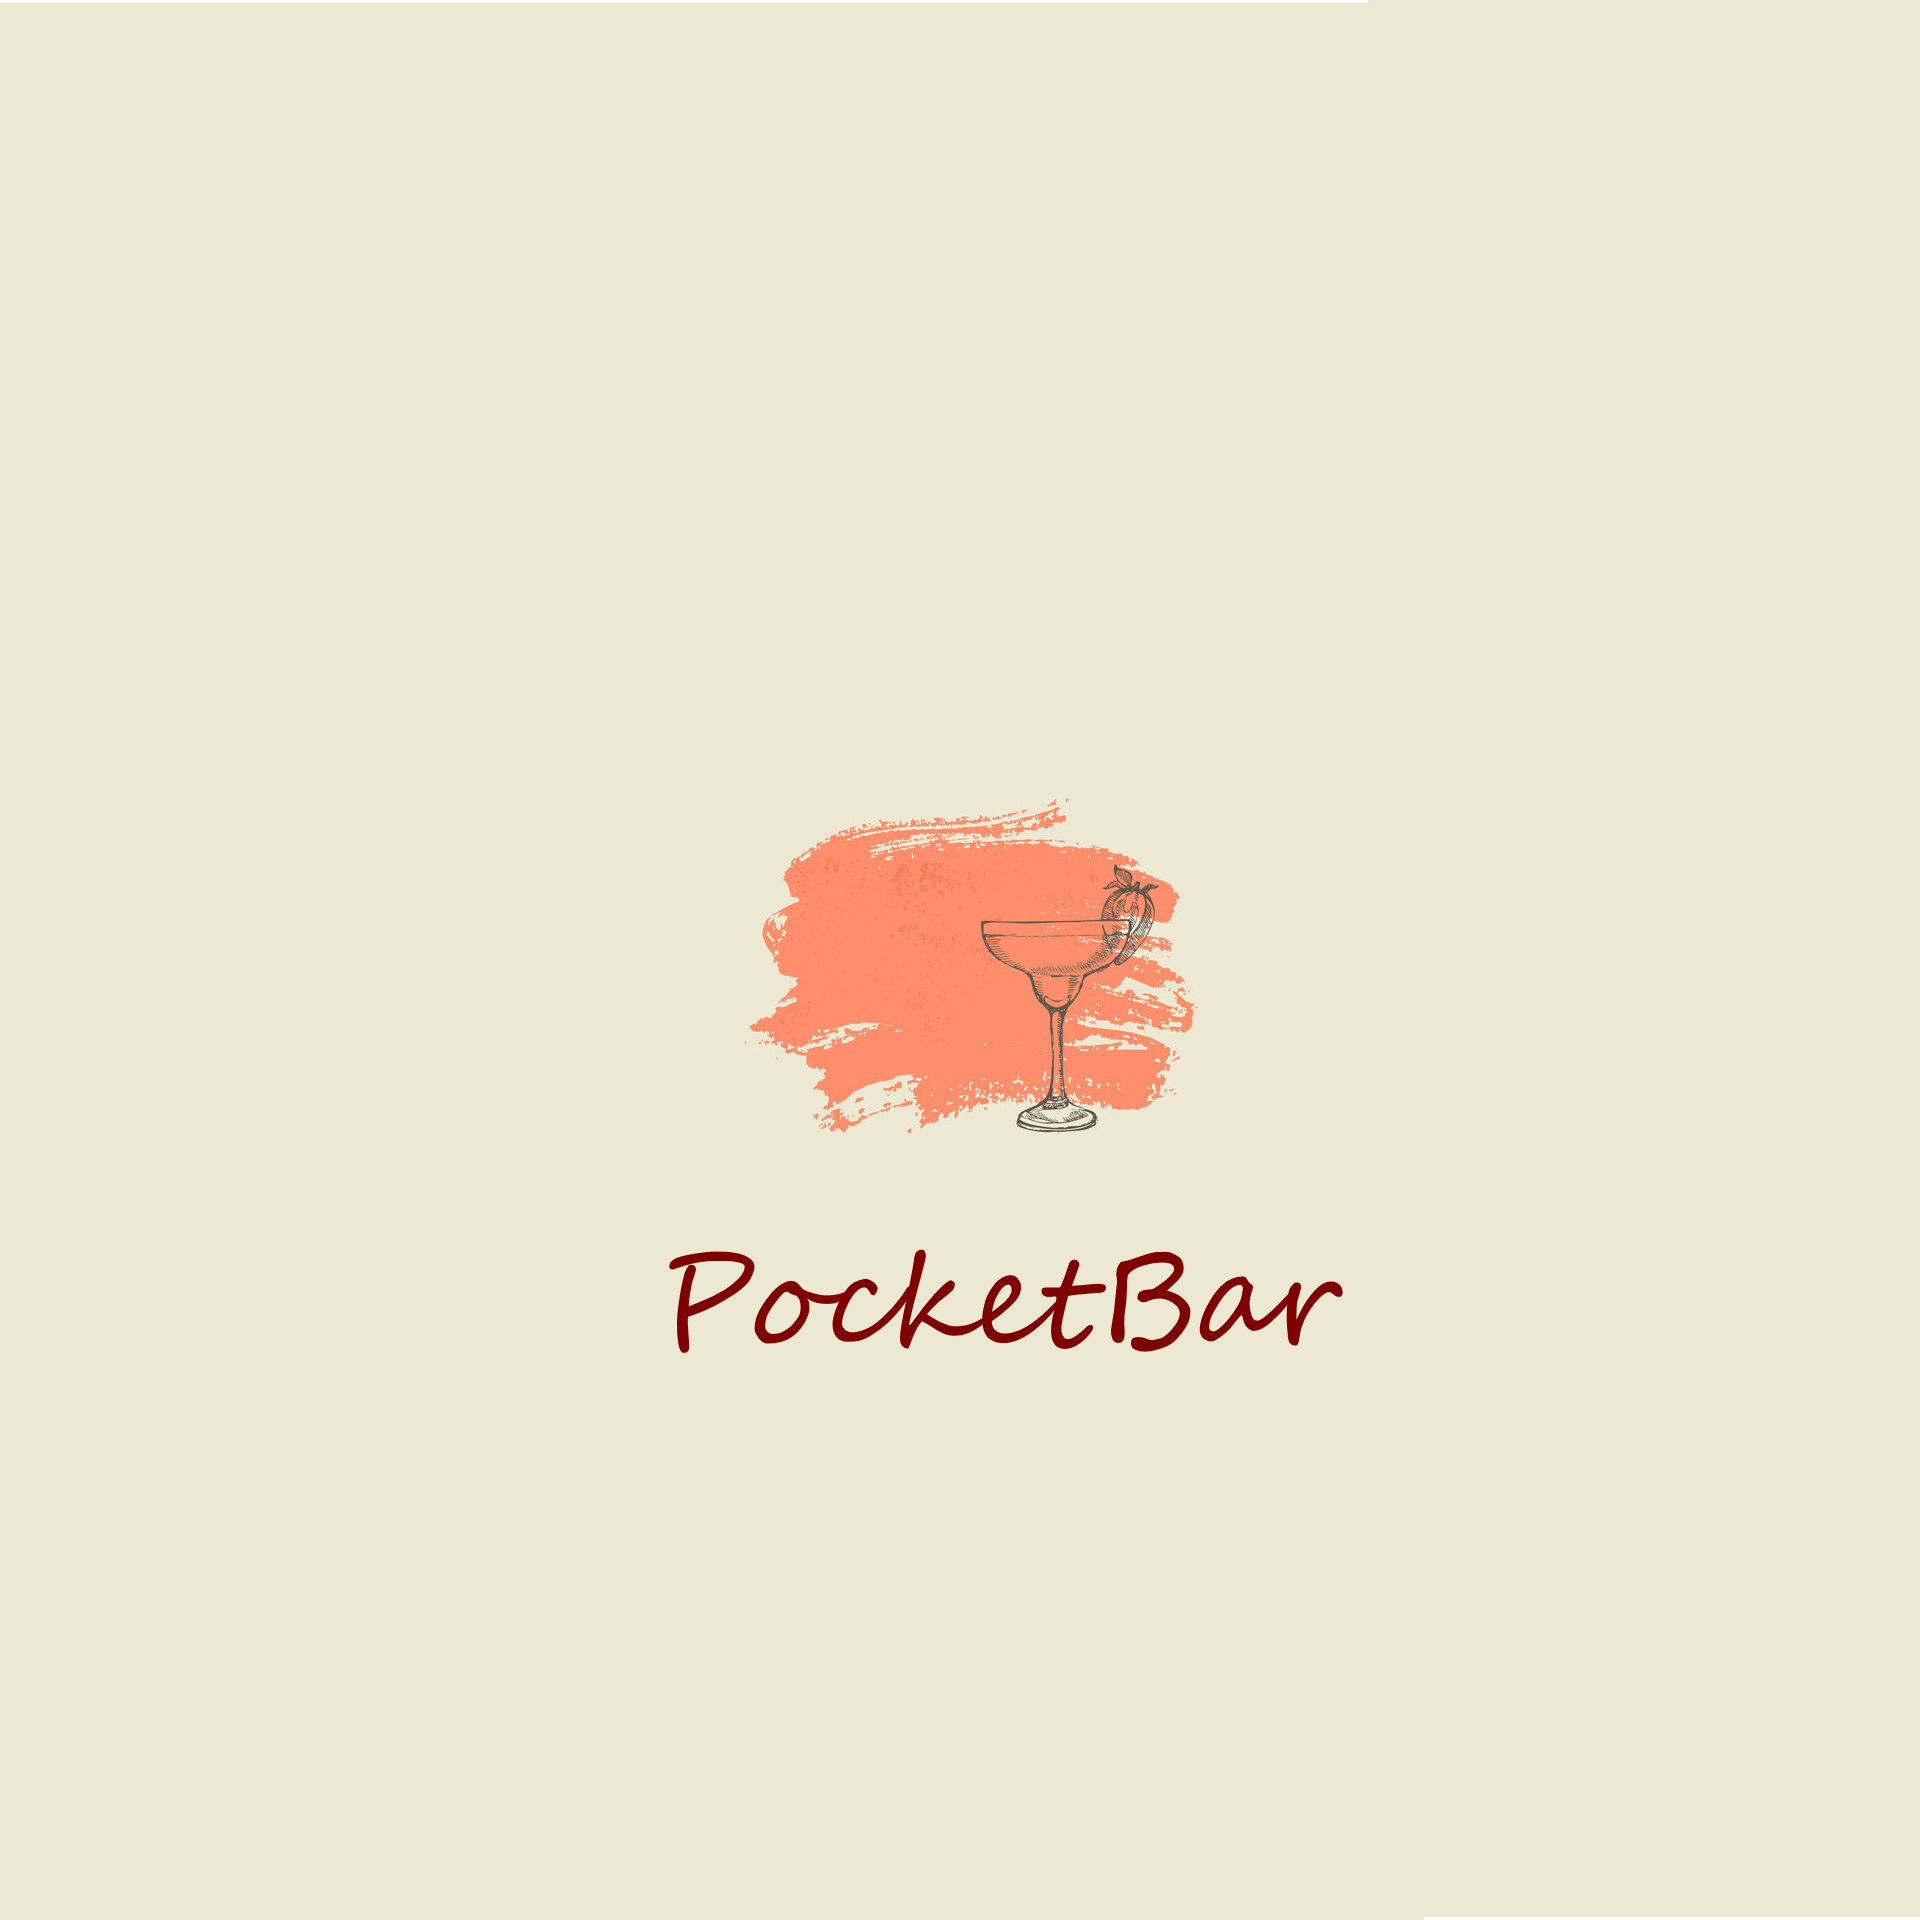
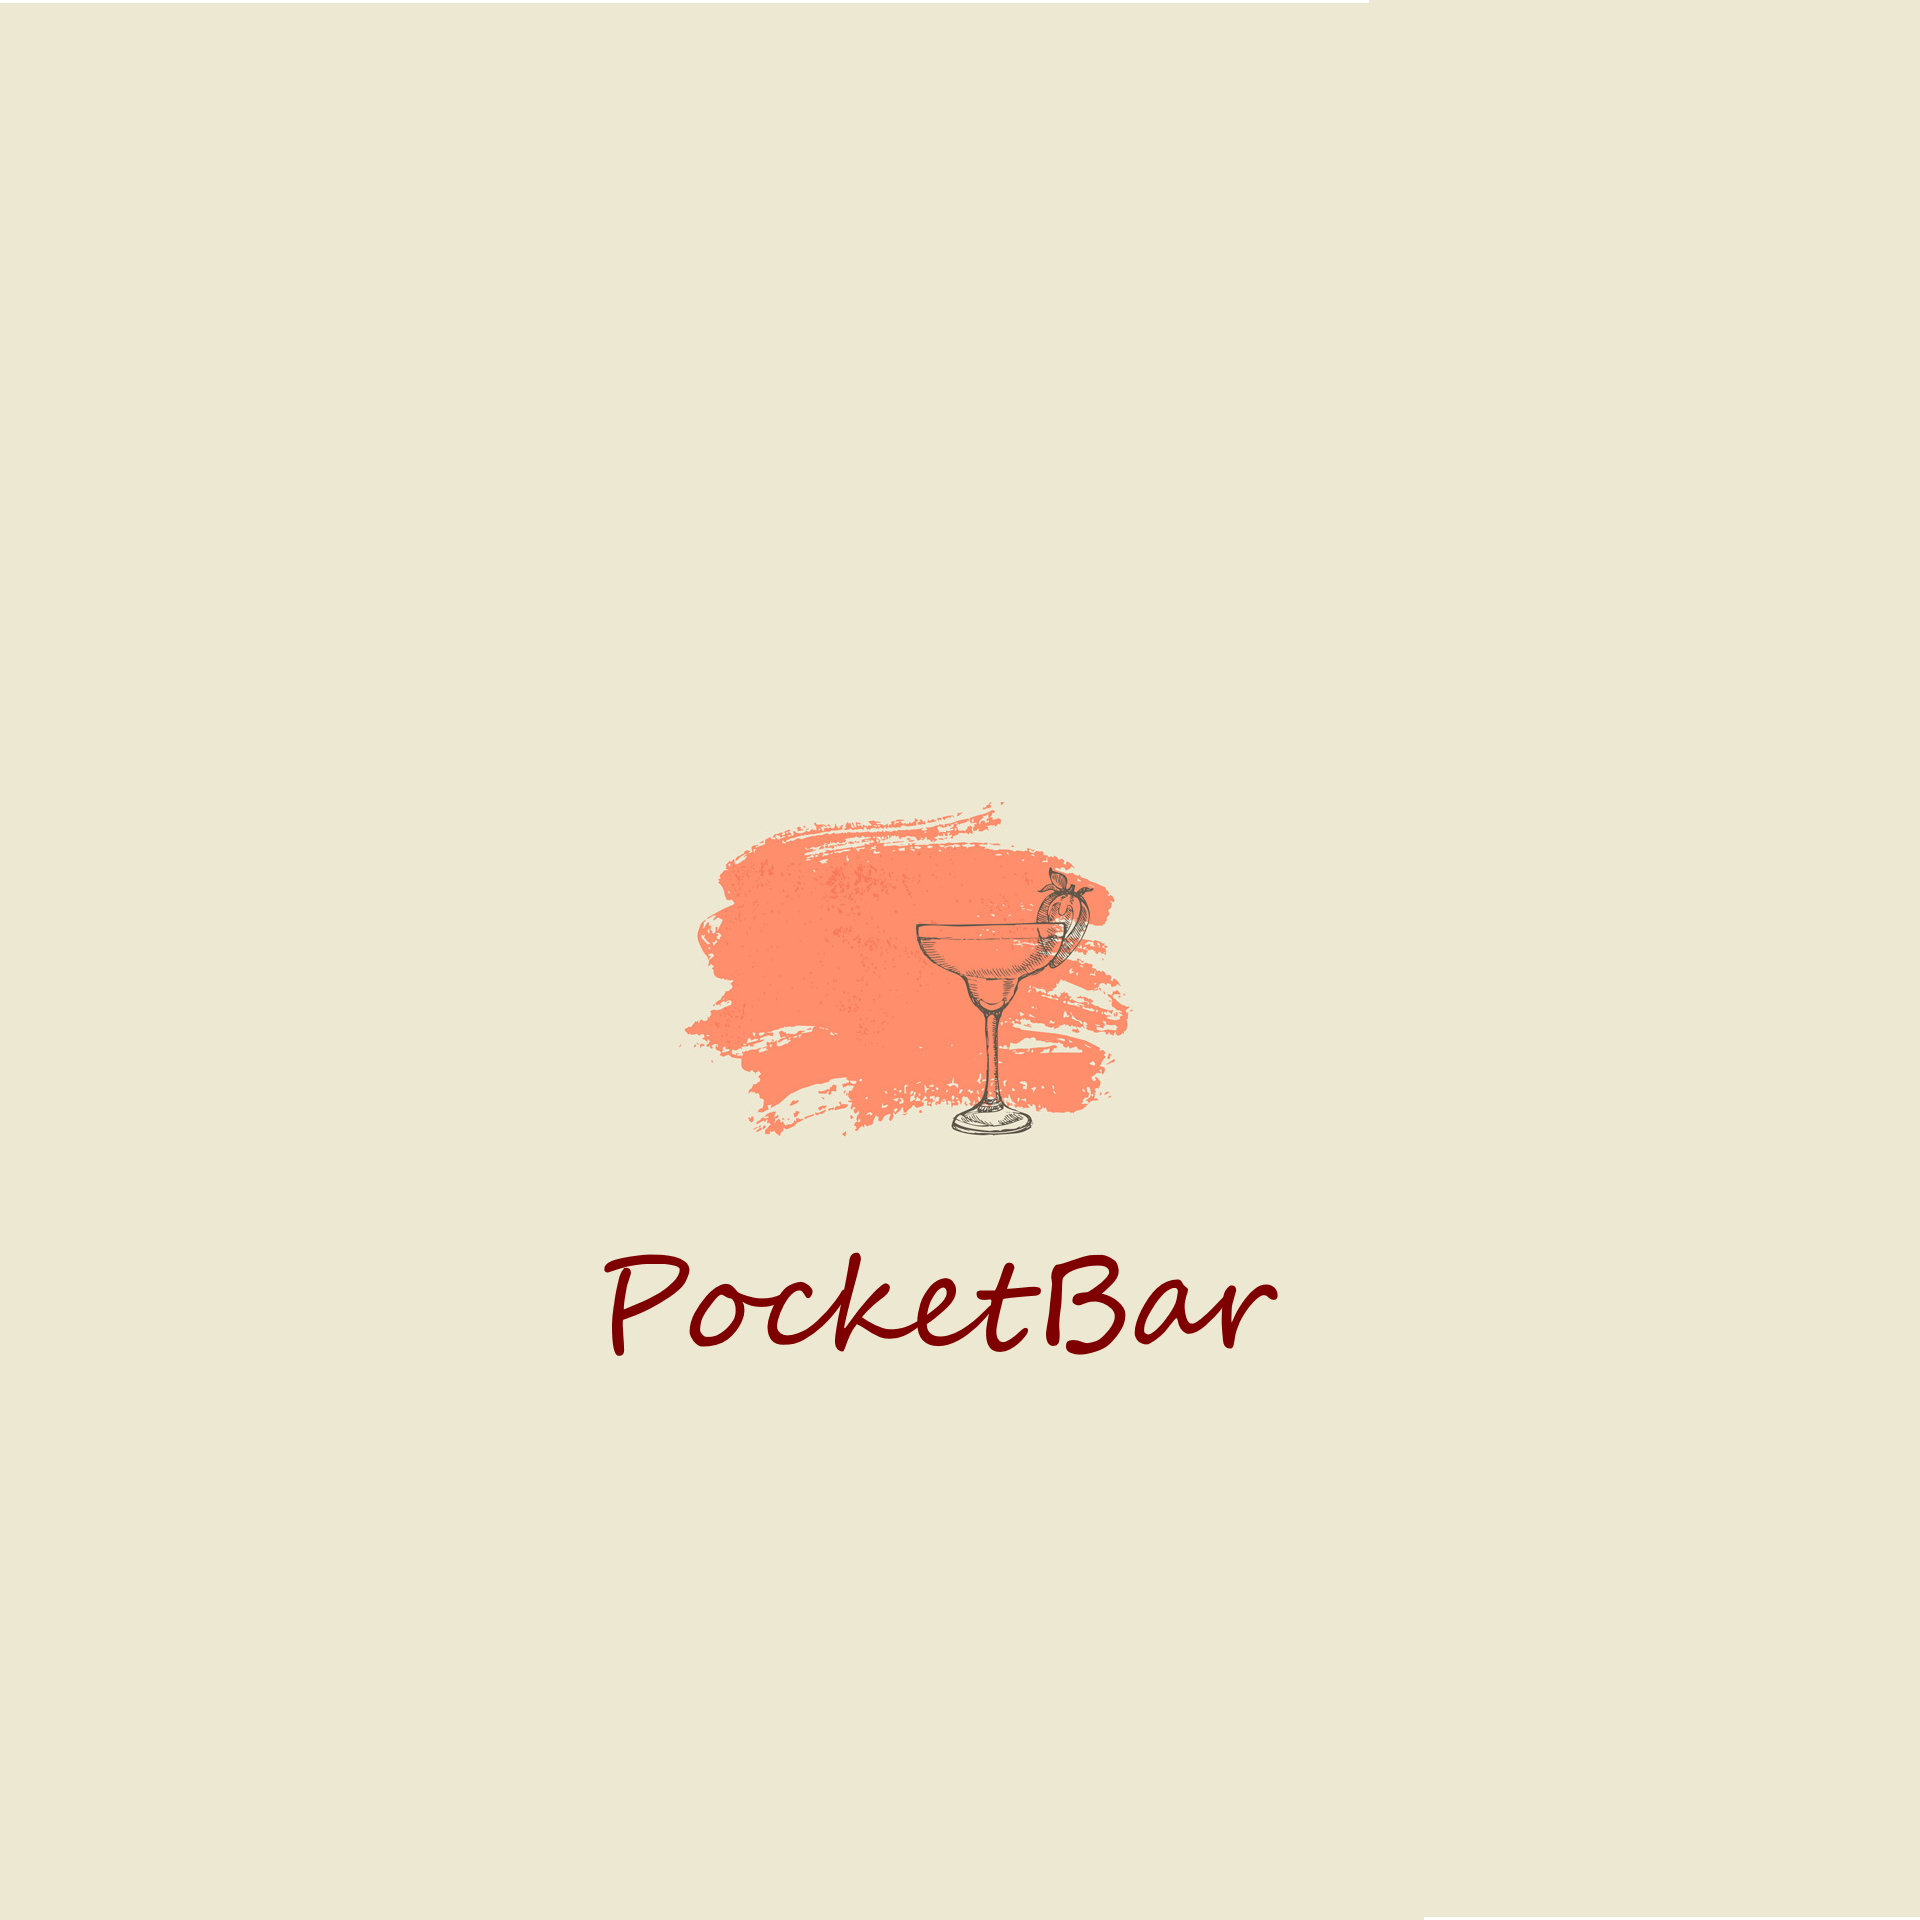
image size reduced for bottol

Changed region(s): [[0.3438, 0.4062, 0.625, 0.5938], [0.3125, 0.625, 0.6875, 0.7188]]

diff --git a/www/templates/account/contact-us.html b/www/templates/account/contact-us.html
@@ -1,22 +1,24 @@
 <ion-view title="Contact Us" id="page5">
-<ion-header-bar class="bar-light">
-        <div class="title">CloudBar-Contact Us</div>
- </ion-header-bar>
+<ion-header-bar class="bar-dark">
+  <div >
+      <button class="button button-block icon-left ion-android-arrow-back" onclick="history.go(-1)" style="margin-top: 0px"></button>
+      <div class="title">Contact Us</div>
+    </div>
+        
+      </ion-header-bar>
 
 <ion-content>
 <ion-list id="itemsInMyCloudBar-list1">
 	<ion-item class="item-thumbnail-left" id="contactCloudBar-list-item6">
         <img src="img/header_contact.png">
-        <h2 style="white-space:normal;">For any assistance with CloudBar or regarding technical difficulties, contact us at: +1-000-0000-0000</h2>
+        <h2 style="white-space:normal;">For any assistance with PocketBar or regarding technical difficulties, contact us at: +1-000-0000-0000</h2>
       <br>
 
-        <h2 style="white-space:normal;">Regarding sales inquiry mail us at sales@cloudbar.com</h2>
+        <h2 style="white-space:normal;">Regarding sales inquiry mail us at sales@pocketbar.com</h2>
         <br>
-        <p style="white-space:normal;">CloudBar uses a step-by-step approach to set expectations for their customers.We are available 24 x 7 for your service.</p>
+        <p style="white-space:normal;">PocketBar uses a step-by-step approach to set expectations for their customers.We are available 24 x 7 for your service.</p>
   </ion-item>
   </ion-list>
-  <div id="home-button-bar1" class="button-bar">
-      <button id="home-button1" style="font-size:13px;" class="button button-stable button-block icon-left ion-android-arrow-back" onclick="history.go(-1)">Go Back</button>
-    </div>
+ 
     </ion-content>
 </ion-view>

diff --git a/www/templates/shop/newBottle.html b/www/templates/shop/newBottle.html
@@ -12,14 +12,14 @@
       <ion-item class="item-icon-left dark" id="page-list-item5">
         <i class="icon ion-ios-wineglass"></i>Johhnie Walker Red Label</ion-item>
       <div class=" item item-image">
-        <img src="img/01-johnnie-walker-red-label.png" style="display: block; width: 100%; height: auto; margin-left: auto; margin-right: auto;">
+        <img src="img/01-johnnie-walker-red-label.png" style="display: block; width: 200px; height: 200px; margin-left: auto; margin-right: auto;">
       </div>
       <div class="item item-body" id="page-list-item-container2"></div>
       <div id="page-markdown2" style="text-align:center;" class="show-list-numbers-and-dots">
         <p style="margin-top:0px;color:#000000;">Bottle details</p>
       </div>
       <div id="page-markdown3" style="text-align:justify;" class="show-list-numbers-and-dots">
-        <p style="color:#05140E;font-size:12px;">Johnnie Walker Red Label: an 80 proof (40% ABV) blend of 35 grain and malt whiskies. It is intended for making mixed drinks. According to William Manchester this was the favorite Scotch of Winston Churchill, who mixed it with soda.</p>
+        <p style="color:#05140E;font-size:12px;margin: 2px;">Johnnie Walker Red Label: an 80 proof (40% ABV) blend of 35 grain and malt whiskies. It is intended for making mixed drinks. According to William Manchester this was the favorite Scotch of Winston Churchill, who mixed it with soda.</p>
       </div>
             
     </div>

diff --git a/www/templates/account/account-setting.html b/www/templates/account/account-setting.html
@@ -1,6 +1,10 @@
 <ion-view title="Account Settings" id="page5">
-<ion-header-bar class="bar-light">
-        <div class="title">CloudBar-My Account Settings</div>
+<ion-header-bar class="bar-dark">
+  <div >
+      <button class="button button-block icon-left ion-android-arrow-back" onclick="history.go(-1)" style="margin-top: 0px"></button>
+      <div class="title">Account Settings</div>
+    </div>
+        
       </ion-header-bar>
   <ion-content padding="true" class="has-header">
     <form id="settings-form1" class="list">
@@ -8,8 +12,6 @@
       <ion-toggle toggle-class="toggle-positive" id="settings-toggle5">Enable Cloud Bar Security Alerts</ion-toggle>
       <ion-toggle toggle-class="toggle-positive" id="settings-toggle6">Enable Cloud Bar E-mail Alerts</ion-toggle>
     </form>
-    <div id="home-button-bar1" class="button-bar">
-      <button id="home-button1" style="font-size:13px;" class="button button-stable button-block icon-left ion-android-arrow-back" onclick="history.go(-1)">Go Back</button>
-    </div>
+    
   </ion-content>
 </ion-view>

diff --git a/www/templates/shop/shop-list.html b/www/templates/shop/shop-list.html
@@ -8,7 +8,7 @@
         
       </ion-header-bar>
     <ion-content padding="true" class="has-header">
-    <h4>Select drinks to add them to your Cart:</h4>
+    <h4>Select drinks to add in your wallet:</h4>
     	 <ion-list id="cameraTabDefaultPage-list2">
        <ion-item class="item-thumbnail-left " id="cameraTabDefaultPage-list-item1"  href="#/account/newBottle">
         <img src="img/whisky.png">
@@ -92,9 +92,6 @@
 
 
     </ion-list>
-<div id="home-button-bar1" class="button-bar">
-      <button id="home-button1" style="font-size:13px;" class="button button-stable button-block icon-left ion-android-arrow-back" onclick="history.go(-1)">Go Back</button>
-    </div>
    
    
   </ion-content>

diff --git a/www/js/location/locationController.js b/www/js/location/locationController.js
@@ -28,7 +28,7 @@ app.controller('locationCtrl', function($scope, $state, $cordovaGeolocation, $co
             '<div id="bodyContent">'+
             '<p><b>Timing</b>, 11 AM - 4 AM '+
             ' Contact : 9495305 '+
-            'Heritage Site.</p><a ng-href="#/app/history">Go to bar details</a>'+
+            'Heritage Site.</p><a ng-href="#/app/history">Get here!</a>'+
            
             '</div>'+
             '</div>';

diff --git a/www/js/app.js b/www/js/app.js
@@ -206,6 +206,6 @@ var app = angular.module('minemywine', ['ionic', 'minemywine.controllers', 'ngCo
     }
   });*/
   // if none of the above states are matched, use this as the fallback
-  $urlRouterProvider.otherwise('/app/shop');
+  $urlRouterProvider.otherwise('/app/location');
 
 });

diff --git a/www/templates/location/location.html b/www/templates/location/location.html
@@ -1,4 +1,4 @@
-<ion-view view-title="Near By Bar">
+<ion-view view-title="Find Near By Bar">
     <ion-content>
         <div id="map" data-tap-disabled="true"></div>
     </ion-content>
